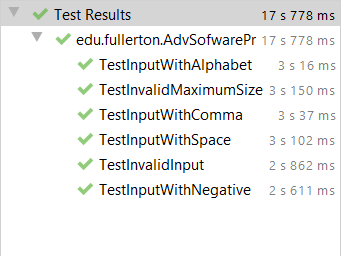
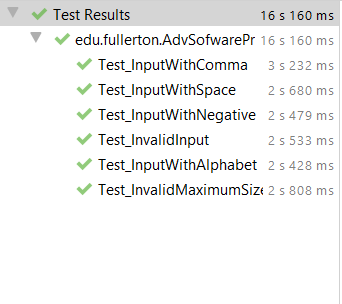
sortTest.kt test cases update.

Changed region(s): [[0.0, 0.0, 1.0, 1.0], [0.2053, 0.7188, 0.7331, 0.7812], [0.2053, 0.5312, 0.2639, 0.5625]]

diff --git a/app/src/androidTest/java/edu/fullerton/AdvSofwareProcess/InsertionSortApp/sortTest.kt b/app/src/androidTest/java/edu/fullerton/AdvSofwareProcess/InsertionSortApp/sortTest.kt
@@ -21,7 +21,7 @@ class sortTest {
     var activityRule: ActivityTestRule<sort> = ActivityTestRule(sort::class.java)
 
     @Test
-    fun TestInputWithComma() {
+    fun Test_InputWithComma() {
 
         onView(withId(R.id.input))
             .perform(typeText("5,4,6,4,2,1"))
@@ -38,7 +38,7 @@ class sortTest {
     }
 
     @Test
-    fun TestInputWithSpace() {
+    fun Test_InputWithSpace() {
 
         onView(withId(R.id.input))
             .perform(typeText("5 8 9 3 2 4"))
@@ -55,7 +55,7 @@ class sortTest {
     }
 
     @Test
-    fun TestInvalidMaximumSize() {
+    fun Test_InvalidMaximumSize() {
 
         onView(withId(R.id.input))
             .perform(typeText("1 2 3 4 5 6 7 8 9"))
@@ -69,7 +69,7 @@ class sortTest {
     }
 
     @Test
-    fun TestInvalidInput() {
+    fun Test_InvalidInput() {
 
         onView(withId(R.id.input))
             .perform(typeText("11"))
@@ -83,7 +83,7 @@ class sortTest {
     }
 
     @Test
-    fun TestInputWithNegative() {
+    fun Test_InputWithNegative() {
 
         onView(withId(R.id.input))
             .perform(typeText("-1"))
@@ -98,7 +98,7 @@ class sortTest {
     }
 
     @Test
-    fun TestInputWithAlphabet() {
+    fun Test_InputWithAlphabet() {
 
         onView(withId(R.id.input))
             .perform(typeText("a"))

diff --git a/app/src/androidTest/java/edu/fullerton/AdvSofwareProcess/InsertionSortApp/MainActivityTest.kt b/app/src/androidTest/java/edu/fullerton/AdvSofwareProcess/InsertionSortApp/MainActivityTest.kt
@@ -22,7 +22,7 @@ class MainActivityTest {
     var activityRule: ActivityTestRule<MainActivity> = ActivityTestRule(MainActivity::class.java)
 
     @Test
-    fun View_test () {
+    fun VIEW_TEST () {
         // Test for textview app name
         onView(withId(R.id.welcome_title_text))
             .check(matches(withText("Insertion Sort App")))
